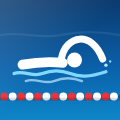
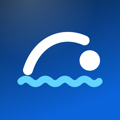
新しいアプリアイコン／列のそろい統一・開始時刻と人数の表示／プレビューのピンチ拡大と1枚表示

diff --git a/index.html b/index.html
@@ -5,22 +5,22 @@
 <meta name="viewport" content="width=device-width, initial-scale=1, viewport-fit=cover">
 <title>スイム大会運営ボード</title>
 <meta name="description" content="水泳大会のエントリー・組分け・進行・記録・速報・証書・表彰をブラウザだけで運営できる無料ツール">
-<meta name="theme-color" content="#0B3A6E">
+<meta name="theme-color" content="#0B2447">
 <meta name="apple-mobile-web-app-capable" content="yes">
 <meta name="mobile-web-app-capable" content="yes">
 <meta name="apple-mobile-web-app-title" content="スイム運営">
 <meta name="application-name" content="スイム運営">
 <meta name="apple-mobile-web-app-status-bar-style" content="black-translucent">
-<link rel="icon" href="favicon.ico" sizes="16x16 32x32">
-<link rel="icon" type="image/png" sizes="32x32" href="app-icon-32.png">
-<link rel="icon" type="image/png" sizes="192x192" href="app-icon-192.png">
[1 lines of base64/hex data omitted]
-<link rel="apple-touch-icon" href="app-icon-180.png">
-<link rel="apple-touch-icon" sizes="180x180" href="app-icon-180.png">
-<link rel="apple-touch-icon" sizes="167x167" href="app-icon-167.png">
-<link rel="apple-touch-icon" sizes="152x152" href="app-icon-152.png">
-<link rel="apple-touch-icon" sizes="120x120" href="app-icon-120.png">
-<link rel="manifest" href="manifest.webmanifest?v=3">
+<link rel="icon" href="favicon.ico?v=4" sizes="16x16 32x32">
+<link rel="icon" type="image/png" sizes="32x32" href="app-icon-32.png?v=4">
+<link rel="icon" type="image/png" sizes="192x192" href="app-icon-192.png?v=4">
[1 lines of base64/hex data omitted]
+<link rel="apple-touch-icon" href="app-icon-180.png?v=4">
+<link rel="apple-touch-icon" sizes="180x180" href="app-icon-180.png?v=4">
+<link rel="apple-touch-icon" sizes="167x167" href="app-icon-167.png?v=4">
+<link rel="apple-touch-icon" sizes="152x152" href="app-icon-152.png?v=4">
+<link rel="apple-touch-icon" sizes="120x120" href="app-icon-120.png?v=4">
+<link rel="manifest" href="manifest.webmanifest?v=4">
 <style>/* Layout: 水面のような色の背景の上に、すりガラスのパネル（上部バー・サイドメニュー・カード）を浮かべる。
    スマホでは下部にガラスのタブバー。操作部品は大きめ（最小 40px）で押しやすく。 */
 :root {
@@ -1545,6 +1545,46 @@ html.final #main input:disabled, html.final #main select:disabled, html.final #m
 .bar.rbar.mixed > input:not([type=checkbox]):not([type=radio]):not([type=file]) { flex: 0 1 220px !important; min-width: 150px !important; }
 .topbar .tmon { width: 0 !important; min-width: 100% !important; }
 .tmon .tnote { flex: 1 1 0 !important; min-width: 160px; } .tmon .tmeet { flex: 0 0 auto !important; max-width: 50%; }
+
+/* ===== 2026-11-27b: プレビューの拡大・1枚表示 ===== */
+.pv-body { touch-action: pan-x pan-y; }
+.pv-body.zoomed { align-items: flex-start; }
+.sheetbox { cursor: zoom-in; }
+.pv-body .sheetbox { width: auto; }
+.pvzoom { margin-left: auto; min-height: 26px; padding: 0 10px; border-radius: 999px; border: 0; background: var(--accent-soft); color: var(--accent); font-weight: 700; font-size: 12px; cursor: pointer; }
+.pvfull { position: fixed; inset: 0; z-index: 300; background: rgba(12, 20, 32, .82); display: flex; flex-direction: column; }
+.pvf-bar { display: flex; align-items: center; justify-content: center; gap: 10px; padding: 10px; color: #fff; }
+.pvf-bar .pvf-no { min-width: 70px; text-align: center; font-size: 15px; }
+.pvf-bar .pvf-z { min-width: 52px; text-align: center; font-size: 13px; opacity: .8; }
+.pvf-b { width: 44px; height: 44px; border-radius: 50%; border: 0; background: rgba(255,255,255,.16); color: #fff; display: inline-grid; place-items: center; cursor: pointer; }
+.pvf-b:hover { background: rgba(255,255,255,.28); }
+.pvf-b .ic { width: 22px; height: 22px; }
+.pvf-stage { flex: 1 1 auto; overflow: auto; display: flex; padding: 16px; touch-action: pan-x pan-y; cursor: zoom-in; }
+.pvf-stage.grab { cursor: grabbing; }
+.pvf-page { margin: auto; position: relative; flex: 0 0 auto; background: #fff; box-shadow: 0 10px 40px rgba(0,0,0,.45); }
+.pvf-page > .sheet { transform-origin: top left; position: absolute; left: 0; top: 0; }
+/* ---- 列の高さをそろえる: 欄・タブ・情報はどれも高さ 44px ---- */
+.bar > select, .bar > input:not([type=checkbox]):not([type=radio]):not([type=file]), .progbar > select.progsel { height: 44px !important; min-height: 44px !important; box-sizing: border-box; }
+.bar > .seg.h { min-height: 44px; box-sizing: border-box; align-items: center; }
+.bar > .seg.h .segbtn { min-height: 38px; }
+.progbar .pinfo { display: flex !important; flex-direction: row !important; flex: 0 0 auto !important; gap: 6px; overflow: visible !important; min-width: auto !important; }
+.progbar .pk { display: inline-flex; align-items: baseline; gap: 4px; height: 44px; box-sizing: border-box; padding: 0 14px; border-radius: 22px; background: var(--track); white-space: nowrap; line-height: 44px; }
+.progbar .pk small { font-size: 12px; color: var(--muted); font-weight: 600; }
+.progbar .pk b { font-size: 19px; font-weight: 750; color: var(--ink); font-variant-numeric: tabular-nums; letter-spacing: .01em; }
+.progbar .pk.ng b { font-size: 13px; color: var(--err); }
+.progbar .pk.fx small { color: var(--accent); }
+.progbar > .pill { height: 44px; box-sizing: border-box; display: inline-flex; align-items: center; padding: 0 14px; border-radius: 22px; font-size: 13px; }
+.pvf-b.pvf-t { width: auto; padding: 0 16px; border-radius: 22px; font-size: 14px; font-weight: 700; }
+.progbar.tight > select.progsel { flex: 0 1 320px !important; min-width: var(--selneed, 200px) !important; }
+.progbar.tight > .btn.rb { width: 56px !important; min-width: 56px !important; flex: 0 0 56px !important; }
+.progbar.tight > .btn.rb .rbc { width: 44px; height: 44px; }
+.progbar.tight > .btn.rb .rbc .ic { width: 19px; height: 19px; }
+.progbar.tight > .btn.rb .rbl { font-size: 10.5px; }
+.progbar.tight > .pill { display: none !important; }
+.progbar.tight .pk { padding: 0 11px; }
+.progbar.tight .pk small.lb { display: none; } .progbar.tight .pk { padding: 0 10px; } .progbar:not(.tight) .pk small.lb + b + small:last-child:empty { display: none; }
+.progbar.tight > select.progsel { font-size: 14px !important; padding-left: 12px; }
+.progbar.tight { gap: 4px !important; } .progbar.tight .pinfo { gap: 4px; }
 </style>
 <style id="page-style">@page { size: A4 portrait; margin: 15.5mm 7mm }</style>
 </head>
@@ -1558,7 +1598,7 @@ html.final #main input:disabled, html.final #main select:disabled, html.final #m
 </div>
 <div class="toasts" id="toasts" aria-live="polite"></div>
 <div id="print-root" class="pgroot"></div>
[2 lines of base64/hex data omitted]
 <script>/* ============================================================================
  * スイム大会運営アプリ — 計算エンジン（DOM非依存）
  *  Excel「大会運営ブック」の数式と「表彰者算出マクロ」のロジックを移植
@@ -3091,6 +3131,29 @@ function roundify(root) {
   // 丸ボタンが無い、選択欄・検索欄だけの列も同じ形にそろえる
   (root || document).querySelectorAll('.bar:not(.progbar):not(.rbar):not(.frow)').forEach(bar => { if (bar.querySelector(':scope > select, :scope > input, :scope > label > select, :scope > label > input')) bar.classList.add('frow'); });
 }
+// 丸ボタンのある列: 選択欄・検索欄・タブ・情報は、丸の中心の高さにそろえる（ラベルの分だけ下がらない。どの画面も同じ）
+function fitProgBar() {     // 記録入力の列が入りきらないとき（画面一覧の固定＋プレビューなど）だけ詰める: 丸を小さく・「入力 x/y」を隠す（種目欄と組タブに ✓ が出る）。種目名は切らない
+  const pb = document.querySelector('#main .progbar'); if (!pb) return;
+  pb.classList.remove('tight'); pb.style.removeProperty('--selneed');
+  const sel = pb.querySelector('select.progsel'); let need = 0;
+  if (sel && sel.selectedOptions[0]) { const cs = getComputedStyle(sel), cv = fitProgBar.c || (fitProgBar.c = document.createElement('canvas').getContext('2d')); cv.font = cs.fontWeight + ' ' + cs.fontSize + ' ' + cs.fontFamily; need = Math.ceil(cv.measureText(sel.selectedOptions[0].text).width + 64); }
+  if (pb.scrollWidth <= pb.clientWidth + 1 && (!sel || sel.offsetWidth >= need)) return;
+  pb.classList.add('tight');
+  if (sel && sel.selectedOptions[0]) { const cs = getComputedStyle(sel); fitProgBar.c.font = cs.fontWeight + ' ' + cs.fontSize + ' ' + cs.fontFamily; need = Math.ceil(fitProgBar.c.measureText(sel.selectedOptions[0].text).width + 60); pb.style.setProperty('--selneed', need + 'px'); }
+  if (pb.scrollWidth > pb.clientWidth + 1) pb.style.removeProperty('--selneed');
+}
+function alignBars(root) {
+  (root || document).querySelectorAll('.bar').forEach(bar => {
+    const rb = bar.querySelector(':scope > .btn.rb .rbc');
+    const kids = [...bar.children].filter(c => !c.classList.contains('rb') && !c.classList.contains('grow'));
+    kids.forEach(c => { c.style.removeProperty('margin-top'); });
+    if (!rb || !bar.offsetParent) { bar.style.removeProperty('align-items'); return; }
+    bar.style.setProperty('align-items', 'flex-start', 'important');
+    const top = rectL(bar).top + (parseFloat(getComputedStyle(bar).paddingTop) || 0);
+    const cc = rectL(rb).top + rectL(rb).height / 2 - top;
+    kids.forEach(c => { if (!c.offsetParent) return; const h = rectL(c).height; c.style.setProperty('margin-top', Math.max(0, cc - h / 2).toFixed(1) + 'px', 'important'); });
+  });
+}
 // 通知モニターの「次の種目へ」などは丸に入る短い名前で
 function shortAct(label) { return ({ '次の種目へ': '次へ', '元に戻す': '戻す', '確認する': '確認', 'バックアップ': '保存', '書き出す': '保存' })[label] || String(label || '').slice(0, 3); }
 
@@ -3158,6 +3221,8 @@ function render() {
   }
   roundify($('#main'));
   liftHeading();
+  fitProgBar();
+  alignBars($('#main'));
   document.documentElement.classList.toggle('final', isFinal());
   if (isFinal()) {      // 確定中: 書き換える欄は押せないように（絞り込み・検索・表示の切り替えは使える）
     $('#main').querySelectorAll('input, select, textarea').forEach(el => { const k = el.dataset.k || ''; if (!/^(ui:|cf:|set:print\.)/.test(k) && !el.closest('.cfil, .pv-side, .pvbar, .modal')) { el.disabled = true; } });
@@ -3170,6 +3235,7 @@ function render() {
   fitCertPrev();
   if ($('#toptitle')) fitTitle($('#toptitle'));
   if ($('.tmeet b')) fitMeet($('.tmeet b'));
+  alignBars($('#main'));
   fitProgram();
   schedulePreview();
   document.querySelectorAll('.fill[data-fill-id]').forEach(el => { if (fillScroll[el.dataset.fillId]) el.scrollTop = fillScroll[el.dataset.fillId]; });
@@ -4110,7 +4176,8 @@ VIEWS.program = () => {
     '<div class="bar progbar' + (ui.progArrange ? ' arr' : '') + '"><button class="btn" data-act="progStep" data-d="-1" ' + (idx <= 0 ? 'disabled' : '') + ' aria-label="前の種目">' + '←' + '</button>' +
     sel('ui:prog', ui.prog, opts.map(n => { const s = D.sched.rows.find(r => r.name === n); const its = D.ind.concat(D.rel).filter(it => it.program === n && it.event); const dn = its.filter(it => it.status !== '未入力').length; return [n, (isCombProg(n) ? '［合同］' : '') + (s ? 'No.' + s.no + ' ' : '') + n + (its.length ? (dn === its.length ? '　✓' : dn ? '　' + dn + '/' + its.length : '') : '　（なし）')]; }), 'class="progsel" aria-label="種目"') +
     '<button class="btn" data-act="progStep" data-d="1" ' + (idx >= opts.length - 1 ? 'disabled' : '') + ' aria-label="次の種目">' + '→' + '</button>' +
-    (ui.prog ? '<span class="pinfo"><span>' + (p.sch ? 'No.' + p.sch.no + '・開始 ' + (p.sch.start !== null ? C.fmtClock(p.sch.start) : '—') : '<span style="color:var(--err)">スケジュール未登録</span>') + '</span><span>' + p.items.length + (p.relay ? 'チーム' : '名') + '・' + p.heats.length + '組' + (p.items.some(it => it.seatFixed) ? '・<b title="「組・レーンを入れ替え」で手で並べた位置を使っています">手で並べ替え済み</b>' : '') + '</span></span>' +
+    (ui.prog ? '<span class="pinfo">' + (p.sch ? '<span class="pk" title="開始予定"><small class="lb">開始</small><b>' + (p.sch.start !== null ? C.fmtClock(p.sch.start) : '—') + '</b></span>' : '<span class="pk ng"><b>スケジュール未登録</b></span>') +
+        '<span class="pk" title="' + (p.relay ? '参加チーム数' : '参加人数') + '"><small class="lb">' + (p.relay ? '参加' : '人数') + '</small><b>' + p.items.length + '</b><small>' + (p.relay ? 'チーム' : '名') + '</small></span>' + (p.items.some(it => it.seatFixed) ? '<span class="pk fx" title="「組・レーンを入れ替え」で手で並べた位置を使っています"><small>手で並べ替え済み</small></span>' : '') + '</span>' +
       '<span class="pill ' + (allDone ? 'ok' : 'info') + '">入力 ' + p.done + ' / ' + p.items.length + '</span>' : '') +
     '<span class="grow"></span>' + (ui.progArrange && ui.prog && p.items.length ? arrTools(p) : '<button class="btn" data-act="clearOut" data-all="0" ' + (p.items.some(it => it.status === '対象外') ? '' : 'disabled') + '>この種目の対象外を解除</button>') +
     (ui.prog && p.items.length ? (ui.progArrange ? '<button class="btn primary" data-act="progArrange">入れ替えを終える</button>' : '<button class="btn tinted" data-act="progArrange">組・レーンを入れ替え</button>') : '') + (ui.prog && p.items.length && !ui.progArrange ? '<button class="btn" data-act="printProg" data-all="0">この種目を印刷</button>' : '') + '</div>' +
@@ -4857,6 +4924,7 @@ const ACTIONS = {
   },
   notes: () => { notesOpen = !notesOpen; notesSeen = Date.now(); paintNote(); },
   notesClose: () => { notesOpen = false; paintNote(); },
+  pvZoomReset: () => { ui.pvZoom = 1; applyPvZoom(); },
   pvSide: () => { navPref.pvSide = navPref.pvSide === 'left' ? 'right' : 'left'; saveNavPref(); render(); },
   progArrange: () => { ui.progArrange = !ui.progArrange; ui.arrSel = null; render(); },
   seatPick: t => {
@@ -5340,7 +5408,7 @@ function previewOn() { return navPref.pv !== false && !isPhone(); }
 function pvShell(inner) {
   if (!PV_VIEWS.includes(view)) return inner;
   if (!previewOn()) return inner;
-  return '<div class="withpv pv-' + view + (navPref.pvSide === 'left' ? ' pvl' : '') + '"><div class="pv-main">' + inner + '</div><aside class="pv card" aria-label="印刷プレビュー"><div class="pv-head"><b>印刷プレビュー</b><span class="muted small" id="pv-count"></span><span class="grow"></span>' +
+  return '<div class="withpv pv-' + view + (navPref.pvSide === 'left' ? ' pvl' : '') + '"><div class="pv-main">' + inner + '</div><aside class="pv card" aria-label="印刷プレビュー"><div class="pv-head"><b>印刷プレビュー</b><span class="muted small" id="pv-count"></span><button type="button" class="pvzoom" id="pv-zoom" data-act="pvZoomReset" title="押すと元の大きさ（ピンチ・Ctrl＋ホイールで拡大、ダブルクリックで1枚を大きく）" hidden>100%</button><span class="grow"></span>' +
     '<button class="iconbtn sm" data-act="pvSide" title="プレビューを' + (navPref.pvSide === 'left' ? '右' : '左') + 'に固定" aria-label="プレビューの位置を左右に切り替え">' + (navPref.pvSide === 'left' ? '→' : '←') + '</button>' +
     '<button class="iconbtn sm" data-act="pvToggle" title="プレビューを隠す" aria-label="プレビューを隠す">' + icon('close') + '</button></div><div class="pv-body fill" data-fill-id="pv" id="pv-body"><div class="empty small">作成中…</div></div></aside></div>';
 }
@@ -5369,13 +5437,98 @@ function buildPreview() {
     const box = document.createElement('div'); box.className = 'sheetbox';
     const sh = document.createElement('div'); sh.className = 'sheet pgroot' + (el.classList.contains('a5') ? ' a5sheet' : '');
     sh.appendChild(el); box.appendChild(sh); body.appendChild(box);
-    const scale = box.clientWidth / sh.offsetWidth;
-    sh.style.transform = 'scale(' + scale + ')';
-    box.style.height = (sh.offsetHeight * scale) + 'px';
+    const scale = (body.clientWidth - 4) / sh.offsetWidth;      // 幅に合わせた大きさ（拡大率 1）
+    box.dataset.k = scale; box.dataset.i = i;
     const no = document.createElement('div'); no.className = 'sheetno'; no.textContent = (i + 1) + ' / ' + total; box.appendChild(no);
   });
   if (total > sheets.length) { const m = document.createElement('div'); m.className = 'empty small'; m.textContent = 'ほか ' + (total - sheets.length) + '枚（プレビューは最初の' + PV_MAX + '枚まで。印刷ではすべて出ます）'; body.appendChild(m); }
   tmp.remove();
+  applyPvZoom();
+  bindPvGestures(body);
+}
+// ---- プレビューの拡大・縮小（ピンチ／トラックパッドのピンチ／Ctrl＋ホイール）。押した位置を中心に拡大
+function applyPvZoom(cx, cy, prevZ) {
+  const body = $('#pv-body'); if (!body) return;
+  const z = ui.pvZoom || 1;
+  let ax = 0, ay = 0;
+  if (prevZ && cx !== undefined) { const r = rectL(body); ax = (cx / FITZR - r.left); ay = (cy / FITZR - r.top); }
+  const sl = body.scrollLeft, st = body.scrollTop;
+  body.querySelectorAll('.sheetbox').forEach(box => {
+    const sh = box.querySelector('.sheet'), k = +box.dataset.k * z;
+    sh.style.transform = 'scale(' + k + ')';
+    box.style.width = (sh.offsetWidth * k) + 'px'; box.style.height = (sh.offsetHeight * k) + 'px';
+  });
+  body.classList.toggle('zoomed', z > 1.01);
+  if (prevZ) { const f = z / prevZ; body.scrollLeft = (sl + ax) * f - ax; body.scrollTop = (st + ay) * f - ay; }
+  const zb = $('#pv-zoom'); if (zb) { zb.textContent = Math.round(z * 100) + '%'; zb.hidden = Math.abs(z - 1) < 0.01; }
+}
+function setPvZoom(z, cx, cy) {
+  const prev = ui.pvZoom || 1; z = Math.max(1, Math.min(4, z));
+  if (Math.abs(z - prev) < 0.001) return;
+  ui.pvZoom = z; applyPvZoom(cx, cy, prev);
+}
+// ピンチ・ダブルタップを1か所で受ける（タッチ画面・トラックパッド・マウス）
+function bindPinch(el, onZoom, onDouble) {
+  if (el.__pinch) return; el.__pinch = true;
+  el.addEventListener('wheel', e => { if (!e.ctrlKey) return; e.preventDefault(); onZoom(Math.exp(-e.deltaY * 0.01), e.clientX, e.clientY); }, { passive: false });
+  let gs = 1;   // Safari（Mac のトラックパッド）
+  el.addEventListener('gesturestart', e => { e.preventDefault(); gs = 1; });
+  el.addEventListener('gesturechange', e => { e.preventDefault(); onZoom(e.scale / gs, e.clientX, e.clientY); gs = e.scale; });
+  const pts = new Map(); let d0 = 0, lastTap = 0;
+  const dist = () => { const [a, b] = [...pts.values()]; return Math.hypot(a.x - b.x, a.y - b.y); };
+  el.addEventListener('pointerdown', e => {
+    if (e.pointerType !== 'touch') return;
+    pts.set(e.pointerId, { x: e.clientX, y: e.clientY });
+    if (pts.size === 2) d0 = dist();
+    if (pts.size === 1) { const now = Date.now(); if (now - lastTap < 320 && onDouble) { onDouble(e); lastTap = 0; } else lastTap = now; }
+  });
+  el.addEventListener('pointermove', e => {
+    if (!pts.has(e.pointerId)) return; pts.set(e.pointerId, { x: e.clientX, y: e.clientY });
+    if (pts.size === 2 && d0) { const d = dist(), [a, b] = [...pts.values()]; e.preventDefault(); onZoom(d / d0, (a.x + b.x) / 2, (a.y + b.y) / 2); d0 = d; }
+  });
+  const up = e => { pts.delete(e.pointerId); if (pts.size < 2) d0 = 0; };
+  el.addEventListener('pointerup', up); el.addEventListener('pointercancel', up);
+  if (onDouble) el.addEventListener('dblclick', e => onDouble(e));
+}
+function bindPvGestures(body) {
+  bindPinch(body, (f, x, y) => setPvZoom((ui.pvZoom || 1) * f, x, y), e => { const box = e.target.closest && e.target.closest('.sheetbox'); if (box) openPvFull(+box.dataset.i); });
+}
+// ---- 1枚を画面いっぱいに大きく表示（ダブルタップ・ダブルクリックで開く）。ピンチで拡大、ドラッグで移動、‹ › で前後のページ
+function openPvFull(i) {
+  const boxes = [...document.querySelectorAll('#pv-body .sheetbox')]; if (!boxes.length) return;
+  let cur = Math.max(0, Math.min(boxes.length - 1, i || 0)), z = 1;
+  const ov = document.createElement('div'); ov.className = 'pvfull'; ov.setAttribute('role', 'dialog'); ov.setAttribute('aria-label', '印刷プレビュー（1枚）');
+  ov.innerHTML = '<div class="pvf-bar"><button class="pvf-b" data-f="prev" aria-label="前のページ">' + icon('prev') + '</button><b class="pvf-no"></b><button class="pvf-b" data-f="next" aria-label="次のページ">' + icon('next') + '</button><span class="pvf-z"></span><button class="pvf-b pvf-t" data-f="fit" aria-label="1枚全体を表示">全体</button><button class="pvf-b" data-f="close" aria-label="閉じる">' + icon('close') + '</button></div><div class="pvf-stage"><div class="pvf-page"></div></div>';
+  document.body.appendChild(ov);
+  const stage = ov.querySelector('.pvf-stage'), page = ov.querySelector('.pvf-page');
+  let sh = null, base = 1;
+  const lay = (cx, cy, prev) => {
+    const k = base * z, w = sh.offsetWidth * k, h = sh.offsetHeight * k;
+    let ax = 0, ay = 0; const sl = stage.scrollLeft, st = stage.scrollTop;
+    if (prev && cx !== undefined) { const r = rectL(stage); ax = cx / FITZR - r.left; ay = cy / FITZR - r.top; }
+    sh.style.transform = 'scale(' + k + ')'; page.style.width = w + 'px'; page.style.height = h + 'px';
+    if (prev) { const f = z / prev; stage.scrollLeft = (sl + ax) * f - ax; stage.scrollTop = (st + ay) * f - ay; }
+    ov.querySelector('.pvf-z').textContent = Math.round(z * 100) + '%';
+  };
+  const show = n => {
+    cur = (n + boxes.length) % boxes.length; z = 1;
+    page.innerHTML = ''; sh = boxes[cur].querySelector('.sheet').cloneNode(true); sh.style.transform = ''; page.appendChild(sh);
+    base = Math.min((stage.clientWidth - 32) / sh.offsetWidth, (stage.clientHeight - 32) / sh.offsetHeight);
+    lay(); stage.scrollTop = 0; stage.scrollLeft = 0;
+    ov.querySelector('.pvf-no').textContent = (cur + 1) + ' / ' + boxes.length;
+  };
+  const zoomTo = (nz, cx, cy) => { const prev = z; z = Math.max(1, Math.min(5, nz)); if (Math.abs(z - prev) > 0.001) lay(cx, cy, prev); };
+  const close = () => { ov.remove(); document.removeEventListener('keydown', key, true); };
+  const key = e => { if (e.key === 'Escape') { e.stopPropagation(); close(); } else if (e.key === 'ArrowRight') show(cur + 1); else if (e.key === 'ArrowLeft') show(cur - 1); };
+  document.addEventListener('keydown', key, true);
+  ov.addEventListener('click', e => { const b = e.target.closest('.pvf-b'); if (!b) { if (e.target === ov) close(); return; } const f = b.dataset.f; if (f === 'close') close(); else if (f === 'prev') show(cur - 1); else if (f === 'next') show(cur + 1); else if (f === 'fit') zoomTo(1); });
+  bindPinch(stage, (f, x, y) => zoomTo(z * f, x, y), e => { if (z > 1.05) zoomTo(1); else zoomTo(2.2, e.clientX, e.clientY); });
+  // マウスでドラッグして移動（拡大中）
+  let drag = null;
+  stage.addEventListener('pointerdown', e => { if (e.pointerType === 'touch' || z <= 1.01) return; drag = { x: e.clientX, y: e.clientY, l: stage.scrollLeft, t: stage.scrollTop }; stage.setPointerCapture(e.pointerId); stage.classList.add('grab'); });
+  stage.addEventListener('pointermove', e => { if (!drag) return; stage.scrollLeft = drag.l - (e.clientX - drag.x) / FITZR; stage.scrollTop = drag.t - (e.clientY - drag.y) / FITZR; });
+  stage.addEventListener('pointerup', () => { drag = null; stage.classList.remove('grab'); });
+  show(cur);
 }
 
 /* ---------------------------------------------------------------- ファイル入出力 */

diff --git a/sw.js b/sw.js
@@ -1,5 +1,5 @@
 // オフラインでも開けるようにする（常に最新を取りに行き、つながらないときだけ保存済みを使う）
-const CACHE = 'swim-meet-board-v3';
+const CACHE = 'swim-meet-board-v4';
 self.addEventListener('install', () => self.skipWaiting());
 self.addEventListener('activate', e => e.waitUntil(self.clients.claim()));
 self.addEventListener('fetch', e => {

diff --git a/README.md b/README.md
@@ -55,6 +55,7 @@
 ## 印刷プレビューと印刷まとめ
 
 - スケジュール・記録入力・速報・ランキング・記録証・表彰の各画面の右側に、A4の印刷プレビューを常に表示します（右上の × で隠し、「印刷プレビューを表示」で戻せます。設定は端末ごとに保存）。
+- プレビューはピンチ（トラックパッド・タッチ画面）や Ctrl＋マウスホイールで、その場で拡大・縮小できます（右上の「%」を押すと元の大きさ）。ページをダブルクリック（ダブルタップ）すると、その1枚を画面いっぱいに大きく表示します（‹ › で前後のページ、ピンチで拡大、Esc で閉じる）。
 - 「印刷まとめ」画面に、大会で使う印刷物（スケジュール、各種目のプログラム、速報、ランキング、表彰ボード、記録証・賞状）をすべて並べています。「見る」でその印刷物だけをプレビューし、チェックを入れたものを上から順に1つの印刷にまとめて出せます。
 
 ## 記録証の対象
